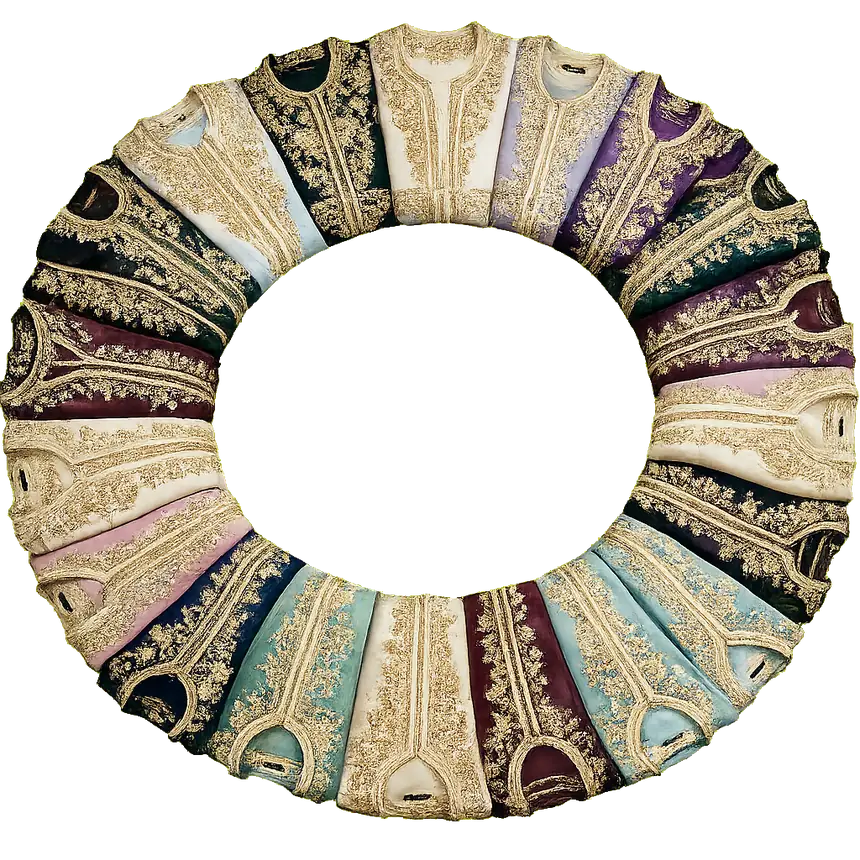
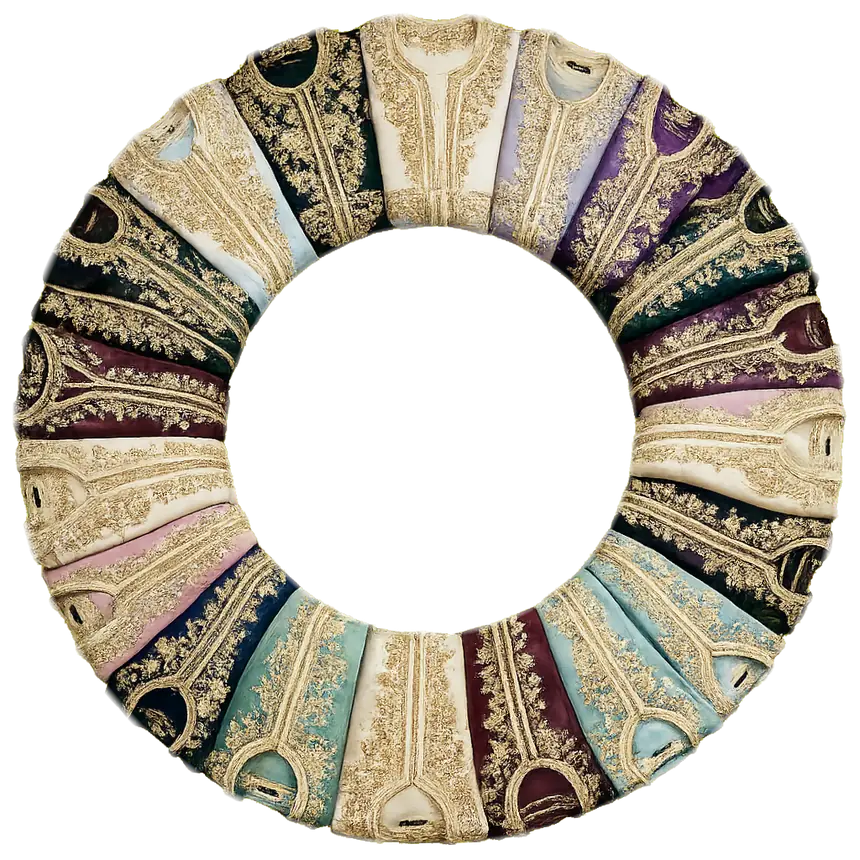
Fix crooked hero ring and replace gallery with real boutique designs
- The kaftan ring in the source photo was off-centre (hole at 516,488) and
  elliptical (527px wide vs 446px tall), which made the hero look crooked.
  Rebuilt it with a polar remap: measured the inner/outer radius at every
  angle from the hole centre and resampled the ring into a perfect annulus
  centred on the canvas, preserving the fabric texture.
- Gallery now shows six real Style By IB designs (bridal kaftan, lace
  bride, gold and night karakous, burgundy and emerald evening gowns),
  cropped to 3:4 with story overlays/icons removed, with Arabic captions.

Claude-Session: https://claude.ai/code/session_01AekXUfWR2AqzRwuQEMMTBZ

diff --git a/src/config/content.ts b/src/config/content.ts
@@ -131,12 +131,12 @@ export const siteContent: SiteContent = {
   },
 
   gallery: [
-    { src: asset('/assets/gallery/kaftan-1.webp'), caption: 'طقم العاج' },
-    { src: asset('/assets/gallery/kaftan-2.webp'), caption: 'الخيط الذهبي' },
-    { src: asset('/assets/gallery/kaftan-3.webp'), caption: 'الأزرق الملكي' },
-    { src: asset('/assets/gallery/kaftan-4.webp'), caption: 'أسود الدار' },
-    { src: asset('/assets/gallery/kaftan-5.webp'), caption: 'وردة الأتيلييه' },
-    { src: asset('/assets/gallery/kaftan-6.webp'), caption: 'حلم الزمرد' },
+    { src: asset('/assets/gallery/design-1.webp'), caption: 'قفطان العروس' },
+    { src: asset('/assets/gallery/design-4.webp'), caption: 'عروس الدانتيل' },
+    { src: asset('/assets/gallery/design-2.webp'), caption: 'الكاراكو الذهبي' },
+    { src: asset('/assets/gallery/design-5.webp'), caption: 'سهرة العنّابي' },
+    { src: asset('/assets/gallery/design-6.webp'), caption: 'كاراكو الليل' },
+    { src: asset('/assets/gallery/design-3.webp'), caption: 'سهرة الزمرد' },
   ],
 
   images: {
